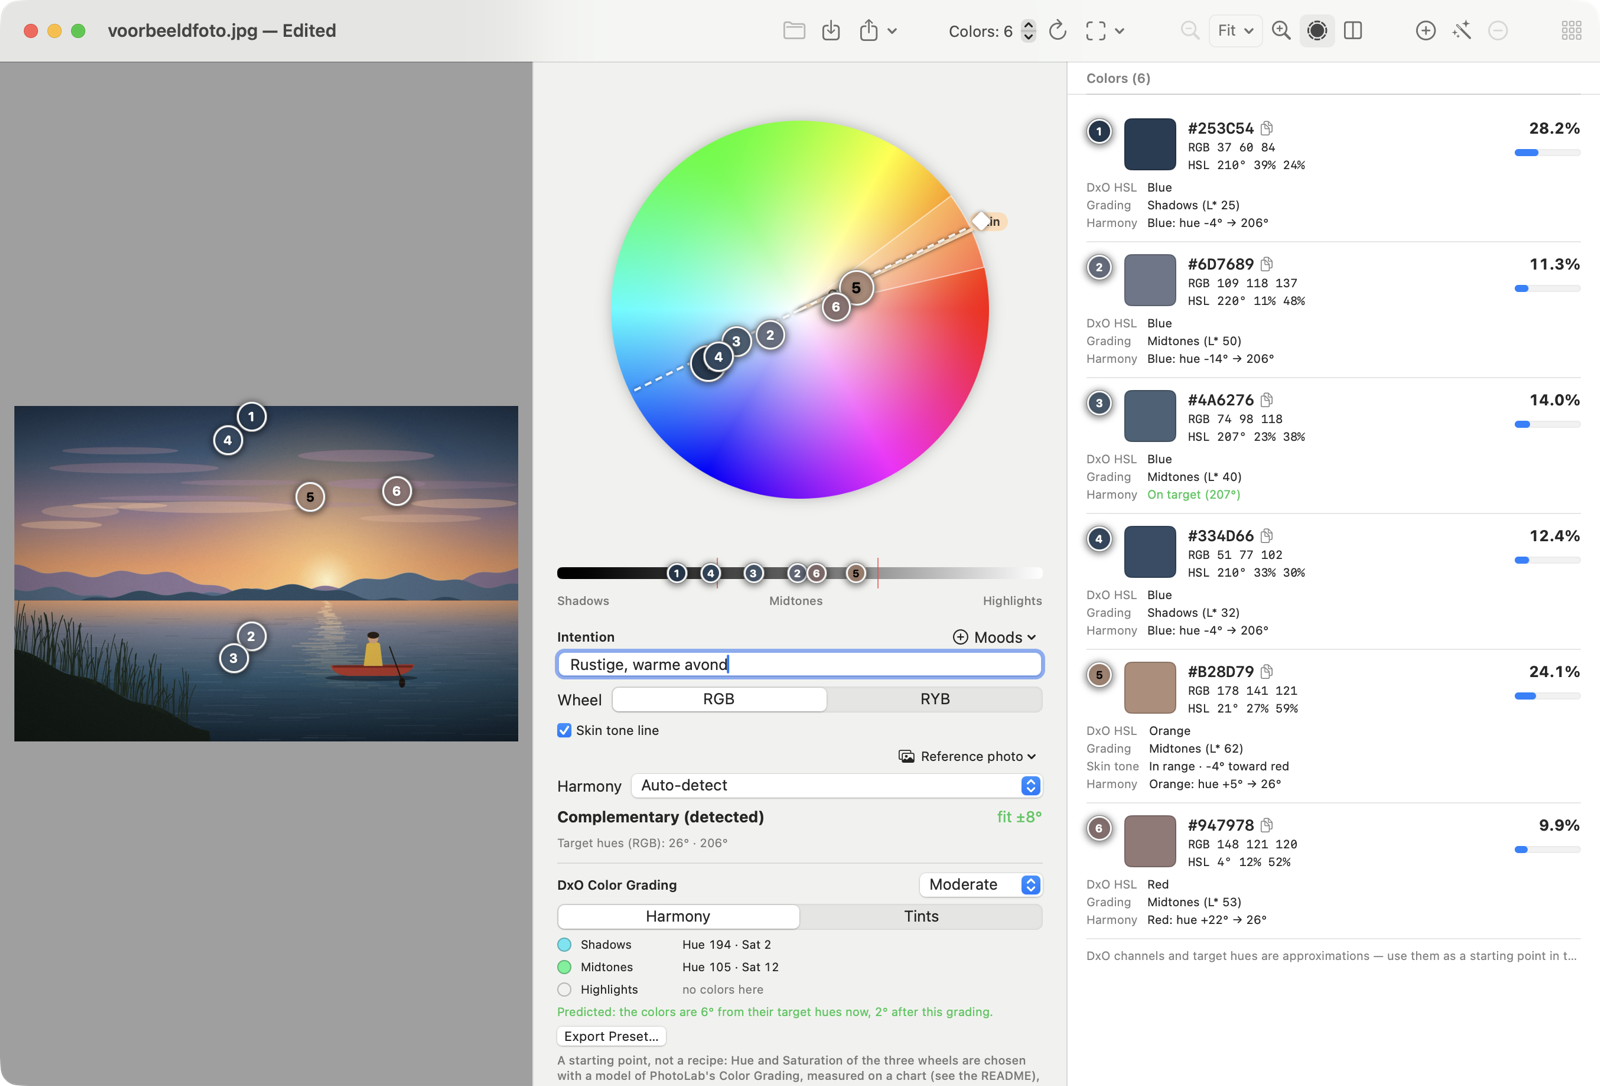
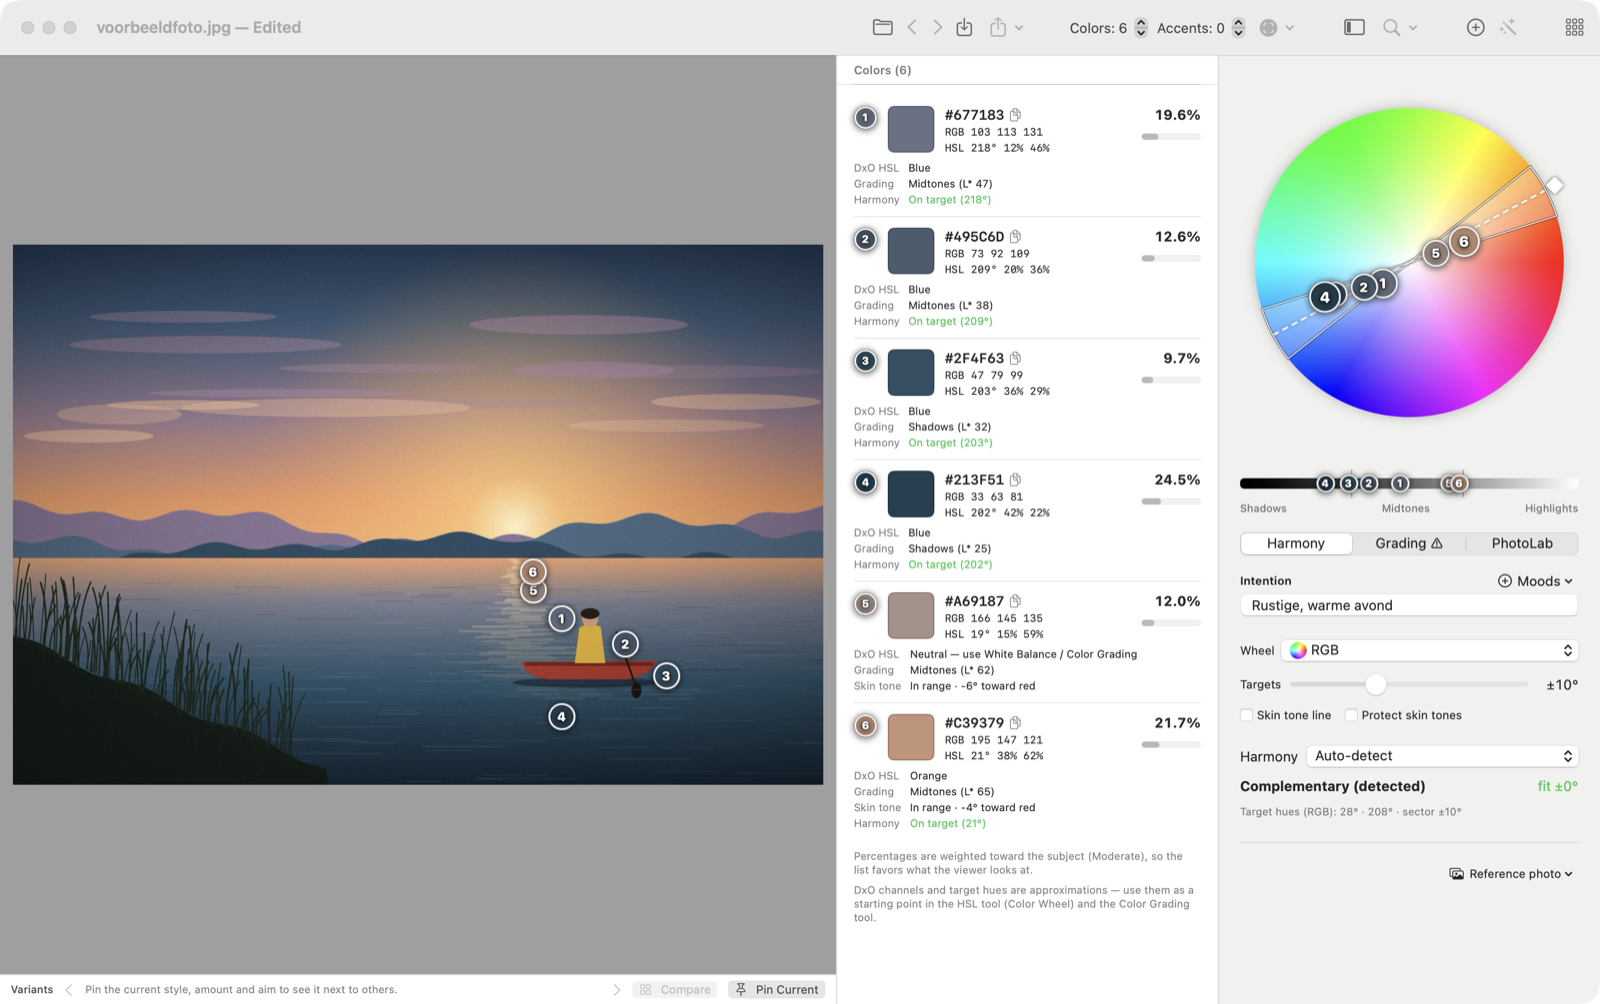
Update tutorial for accents, amount slider, protected colors, variants and new screenshots

diff --git a/docs/TUTORIAL.md b/docs/TUTORIAL.md
@@ -16,7 +16,7 @@ Wat je ziet:
 
 ## 2. Controleer wat de analyse mist
 
-De automatische analyse kijkt naar oppervlak. Op de voorbeeldfoto levert dat vooral blauwtinten op, plus wat wolk. Het kleine bootje en de zon — precies waar het oog naartoe gaat — ontbreken. Dat is normaal: **oppervlak ≠ belang**.
+De automatische analyse kijkt naar oppervlak. Op de voorbeeldfoto levert dat vooral blauwtinten op, plus wat wolk. Het kleine bootje en de zon — precies waar het oog naartoe gaat — ontbreken. Dat is normaal: **oppervlak ≠ belang**. Snelste oplossing: zet in de toolbar **Accents** op 1 à 2. Dan houdt de app die plekken vrij voor de meest opvallende kleine kleuren (met ★ in de lijst), zoals het rode bootje, die anders buiten de zes kleuren vallen. Wil je het zelf bepalen, ga dan verder met stap 3.
 
 ## 3. Corrigeer de markers
 
@@ -25,7 +25,7 @@ De automatische analyse kijkt naar oppervlak. Op de voorbeeldfoto levert dat voo
 - **Dubbelklik** op de foto voegt een marker toe. **Selecteren + de min-knop (toolbar)** of rechtsklik ▸ *Remove Marker* verwijdert er een.
 - **Inzoomen voor precisie**: ⌘-scroll of knijp (pinch) op de plek waar je wilt zijn, scroll of sleep om te verplaatsen, **⌘0** is weer de hele foto. Bij een geselecteerde marker toont een ring het gebied waarover de kleur wordt gemiddeld, met een stip op de exacte plek.
 
-Voor de voorbeeldfoto: zoom in op het bootje, dubbelklik op de gele jas (marker 5) en op de rode romp (marker 6). Selecteer een marker en je ziet de **regio** van die kleur oplichten (hier de romp: 0,5 % van de foto) — handig om te zien waar een DxO-lokale aanpassing moet komen.
+Voor de voorbeeldfoto: zoom in op het bootje, dubbelklik op de gele jas (marker 5) en op de rode romp (marker 6). Met **Sample size** (bij de geselecteerde kleur, 0,3–5 %, dubbelklik zet terug) bepaal je over hoeveel van de omgeving de kleur wordt gemiddeld: klein voor een klein detail als de jas, groter voor een korrelig vlak; het gestippelde rondje op de ingezoomde foto toont het gebied. Selecteer een marker en je ziet de **regio** van die kleur oplichten (hier de romp: 0,5 % van de foto) — handig om te zien waar een DxO-lokale aanpassing moet komen.
 
 ![Ingezoomd op het bootje](img/stap2-zoom.png)
 
@@ -38,6 +38,9 @@ Zoom daarna terug (⌘0), verwijder de dubbele blauwen en zet een marker op de z
 - *Harmony → Auto-detect* kiest het sjabloon dat het best past (hier *Complementary*, fit ±7°). Kies zelf een ander sjabloon of draai het met de handle aan de rand van het wiel. Onder **Targets** stel je in hoe breed een doel is: bij *Sector ±10°* (standaard) hoeft een kleur die binnen 10° van het doel valt niet te verschuiven, bij *Exact hue* schuift alles naar de spaak.
 - In de lijst staat per kleur wat er moet gebeuren: *Orange: hue +8° → 29°* betekent dat die kleur 8° richting het doel moet schuiven. **Groen = op doel.**
 - *Skin tone*: kleuren in de huidtintband krijgen een regel erbij. Het is een vuistregel, geen huiddetectie.
+- **Kleur beschermen**: sommige kleuren zijn bewust gekozen en moeten niet naar de harmonie worden getrokken, zoals de gele jas en het rode bootje. Rechtsklik op de kleur in de lijst of op de marker ▸ *Protect Color (keep its hue)*. De grading, de voorspelling en de preview tinten de foto dan rond die kleur, en de HSL-voorstellen slaan haar over. Huidtinten beschermen zichzelf (*Protect Skin Tones* in het ⚙-menu van de Harmony-tab).
+- **Ander kleurwiel**: het keuzemenu onder de helderheidsbalk (RGB, RYB, DxO, OKLCH, CIELAB, Munsell, Itten) verandert op welk wiel de harmonie wordt berekend en getekend; de kleuren zelf veranderen niet.
+- **Referentiefoto**: wil je de kleuren van een andere foto als doel? Open die met **⌥⌘R** (*Compare ▸ Open Reference Photo…*). Onder *Reference fit* in de Harmony-tab zie je zijn palet; klik een staal om een kleur van jouw foto aan die referentiekleur te koppelen.
 - Het DxO-kanaal en de hue-waarden zijn benaderingen op DxO's eigen kleuras. Controleer ze in PhotoLab.
 
 ## 5. Naar DxO PhotoLab
@@ -46,11 +49,13 @@ De tab **PhotoLab** onder het wiel toont onder **Color Grading** per toonbereik 
 
 **Eerst kijken wat het voorstel doet:** zet in de tab **Grading** **Preview on the photo** aan (of druk op `P`). Rechts van de verdeellijn zie je de foto met de voorgestelde waarden toegepast, links het origineel; sleep de lijn om te vergelijken. Met *×2* of *×4* worden de tinten overdreven, handig als het voorstel klein is. Sinds de kalibratie klopt de preview goed met PhotoLab (zie de README), en met de preview aan zie je op het wiel ook waar elke kleur volgens het model terechtkomt (stippellijn-bolletjes) en in de lijst een regel *Predicted …* met de huidtintband voor en na. Boven de preview-schakelaar staat hoe ver de kleuren van hun doel zijn, nu en na de grading. Je ziet meteen of bijvoorbeeld het rode bootje oranje wordt.
 
+![Preview met de stijl Warm highlights, cool shadows](img/stap5-preview.png)
+
 **Een stijl erbij:** naast de sterkte staat in hetzelfde vak het menu **Style**. *Neutral* is alleen "kleuren naar hun doel". Kies *Warm highlights, cool shadows* (of andersom) en de grading geeft ook de shadows en highlights een eigen zweem, bijvoorbeeld warme lichten tegen koele schaduwen, ook als die bereiken zelf geen kleuren hebben. Er zijn er meer: *Teal & orange (cinematic)* is hetzelfde met sterkere kleuren, *Warm overall* en *Cool overall* leggen een zweem over de hele foto met het **Master**-wiel (in PhotoLab het wiel *Global* in het Color Grading-palet; het vak noemt het *Master*), ten koste van de kleurfit, en *Faded (lighter shadows)* tilt de schaduwen op zonder zweem, met de schuifregelaars **Blacks** en **Shadows** van het palet **Light** (module *Selective Tone*). Het vak toont daarvoor een blok *Light palette, Selective Tone*; die twee waarden zet je met de hand in (een Color Grading-preset kan ze niet dragen). Een pixel die precies zwart is blijft zwart. Staat er in je **Intention** een woord als *warm*, *warme avond* of *koel*, dan stelt de app de passende stijl zelf voor, met een knop **Use**; er verandert niets tot je klikt. Dat gaat ten koste van een stukje van de kleurfit; de regel *Predicted* onder het voorstel laat zien hoeveel. Kijk altijd in de preview.
 
 ### 5a. Met een preset (snel)
 
-Kies de sterkte (*Subtle / Moderate / Strong*) en klik **Export Preset…**. Het `.preset`-bestand komt in PhotoLabs eigen map (`~/Library/DxO PhotoLab v10/ColorGradingPresets`) en verschijnt daar in de lijst van het **Preset**-menu van het Color Grading-palet, als *voorbeeldfoto – ColorAnalyze*.
+Stel met de schuifregelaar **Amount** in de Grading-tab de sterkte in (0–3, standaard 1; dubbelklik zet terug) en klik **Export Preset…**. Het `.preset`-bestand komt in PhotoLabs eigen map (`~/Library/DxO PhotoLab v10/ColorGradingPresets`) en verschijnt daar in de lijst van het **Preset**-menu van het Color Grading-palet, als *voorbeeldfoto – ColorAnalyze*.
 
 ### 5b. Handmatig, zonder preset
 
@@ -65,22 +70,22 @@ Wil je de preset niet gebruiken, of zelf bepalen wat je overneemt? Voer de voors
 
 **Deel 1: Color Grading, de grote lijnen (3 handelingen)**
 
-Dit zet de algemene tint per toonbereik. Voorbeeld voor de voorbeeldfoto, zoals ColorAnalyze die kan voorstellen (de getallen hangen af van je markers, het aantal kleuren, de sterkte en de stijl; die van jou kunnen dus afwijken):
+Dit zet de algemene tint per toonbereik. Voorbeeld voor de voorbeeldfoto met de stijl *Warm highlights, cool shadows* (die de app uit de intentie *Rustige, warme avond* zelf voorstelt), zoals ColorAnalyze die kan voorstellen (de getallen hangen af van je markers, het aantal kleuren, de Amount en de stijl; die van jou kunnen dus afwijken):
 
 | Toonbereik | Voorstel in ColorAnalyze | Wat je in PhotoLab invult |
 |---|---|---|
-| Shadows | geen voorstel (*already on target*) | niets, laat op 0 |
-| Midtones | Hue 120 · Sat 4 | Hue **120**, Saturation **4** |
-| Highlights | geen voorstel (*already on target*) | niets, laat op 0 |
+| Shadows | Hue 227 · Sat 18 | Hue **227**, Saturation **18** |
+| Midtones | geen voorstel (*already on target*) | niets, laat op 0 |
+| Highlights | Hue 41 · Sat 25 | Hue **41**, Saturation **25** |
 
-De voorbeeldfoto zit al dicht bij zijn harmonie (de kleuren zijn gemiddeld 6° van hun doel), dus het voorstel is klein; bij een foto die verder afwijkt zie je grotere waarden. Let ook op dat de Hue van een wiel zelden de tint van het doel is: PhotoLab telt de tint per kleurkanaal op in een breed kleurgebied, en het model kiest de Hue die de kleuren echt dichter bij hun doel brengt (zie de README).
+Zonder stijl (*Neutral*) zit de voorbeeldfoto al dicht bij zijn harmonie (de kleuren zijn gemiddeld 1° van hun doel), dus dan stelt de app niets voor; bij een foto die verder afwijkt zie je ook zonder stijl grotere waarden. Let ook op dat de Hue van een wiel zelden de tint van het doel is: PhotoLab telt de tint per kleurkanaal op in een breed kleurgebied, en het model kiest de Hue die de kleuren echt dichter bij hun doel brengt (zie de README).
 
 1. Open in PhotoLab het palet **Color Grading**.
 2. Kies bovenin het toonbereik: **Shadows**, **Midtones** of **Highlights** (de keuzes naast *Global*).
 3. Vul onder het kleurenwiel de velden **Hue** en **Saturation** in met de getallen uit ColorAnalyze (typen in de velden kan; slepen van het stipje in het wiel kan ook, hoe verder van het midden hoe sterker de verzadiging). Laat **Luminance** op 0, tenzij het vak er een getal bij noemt (*Lum*; dat gebeurt zelden).
 4. Herhaal stap 2 en 3 voor elk toonbereik dat een voorstel heeft.
 5. Regels met *already on target* of *no colors here* laat je ongemoeid. **Master** (het eerste bolletje boven het wiel, *Global*) stelt ColorAnalyze alleen voor bij de stijlen *Warm overall* en *Cool overall*; staat er een regel *Master* in het vak, zet dan ook daar Hue en Saturation in; anders laat je het staan. **Balance** laat je ook staan, tenzij het vak er een getal voor noemt (zeldzaam) of je zelf iets wilt: naar rechts reiken de highlights verder de donkere tonen in en worden de shadows smaller, naar links andersom (gemeten in PhotoLab 10.1).
-6. Is het effect te sterk? Kies in ColorAnalyze **Subtle** voor lagere Sat-waarden, of verlaag de Saturation in PhotoLab zelf. Is het te zwak, kies dan **Strong**.
+6. Is het effect te sterk? Zet in ColorAnalyze **Amount** lager (bijv. 0,5) voor lagere Sat-waarden, of verlaag de Saturation in PhotoLab zelf. Is het te zwak, zet Amount hoger (bijv. 1,7).
 
 De Hue-getallen zijn PhotoLabs eigen tint (de HSV-tint in Rec.2020, gemeten met PhotoLab 10.1), dus je typt ze zoals ze staan. De wiel-kleur die je dan ziet is die van PhotoLab, niet de sRGB-kleur uit ColorAnalyze: puur sRGB-rood is bij PhotoLab bijvoorbeeld al tint 14.
 
@@ -101,17 +106,28 @@ Niet elke verschuiving hoeft door te gaan. De gele jas en het rode bootje zijn b
 **Controleren**
 
 1. Exporteer de bewerkte foto uit PhotoLab (zelfde uitsnede, bijvoorbeeld JPEG of TIFF).
-2. Laad hem in ColorAnalyze met **Compare** (⇧⌘O). In de lijst zie je per kleur of de afstand tot het doel kleiner (groen) of groter (rood) is geworden, en of de huidtint binnen de band is gebleven.
+2. Laad hem in ColorAnalyze met **Open Graded Version…** (⇧⌘O). In de lijst zie je per kleur of de afstand tot het doel kleiner (groen) of groter (rood) is geworden, en of de huidtint binnen de band is gebleven.
 3. Nog niet goed? Pas in PhotoLab de getallen aan en herhaal.
 
-## 6. Voor/na en bewaren
+## 6. Varianten vergelijken
 
-- Exporteer de bewerkte foto uit DxO (zelfde uitsnede) en laad hem met **Compare** (⇧⌘O). Wiel en lijst tonen wat je grading met de kleuren deed, inclusief of de huidtint binnen de band bleef.
+Twijfel je tussen twee looks, bijvoorbeeld *Warm highlights, cool shadows* op Amount 1 of op 2 (of een andere stijl)? Kies de stijl en Amount en klik op de pin in de balk **Variants** onder de foto (of *Compare ▸ Pin Current as Variant*). Zo bewaar je stijl, Amount, doel en harmonie als variant met een miniatuur. Pin er zo een paar en:
+
+- klik een miniatuur om die variant weer actief te maken (rechtsklik: *Update with Current Settings* of *Remove Variant*), of blader met **⌥⌘[** en **⌥⌘]**;
+- zet de rasterschakelaar aan (*Compare ▸ Compare All Variants*) om alle varianten naast het origineel te zien; in het raster kun je inzoomen.
+
+![Twee varianten naast het origineel](img/stap6-varianten.png)
+
+## 7. Voor/na en bewaren
+
+- Exporteer de bewerkte foto uit DxO (zelfde uitsnede) en laad hem met **Open Graded Version…** (⇧⌘O). Wiel en lijst tonen wat je grading met de kleuren deed, inclusief of de huidtint binnen de band bleef.
 - **⌘S** bewaart de sessie naast de foto (markers, intentie, harmonie). **⇧⌘E** maakt een PNG-rapport; zo ziet het er voor de eerste analyse uit:
 
 ![PNG-rapport](img/rapport.jpg)
 
 - Kleurenlijst als CSV (ook met `;` voor Nederlands Excel) of JSON: menu *Export* in de toolbar.
+- Geen PhotoLab bij de hand? *File ▸ Export Graded Photo as TIFF… / JPEG…* schrijft de foto met het voorstel erop toegepast, volgens het gekalibreerde model (een benadering, geen PhotoLab-render).
+- Staan er meer foto's in de map? **⌘[** en **⌘]** (of de pijlen in de toolbar) gaan naar de vorige en volgende; niet-bewaarde wijzigingen worden eerst als sessie opgeslagen.
 - Meerdere foto's tegelijk? Open het **Series**-venster voor een gedeeld palet en een consistentiescore per foto.
 
 Alle functies staan beschreven in de [README](../README.md).
